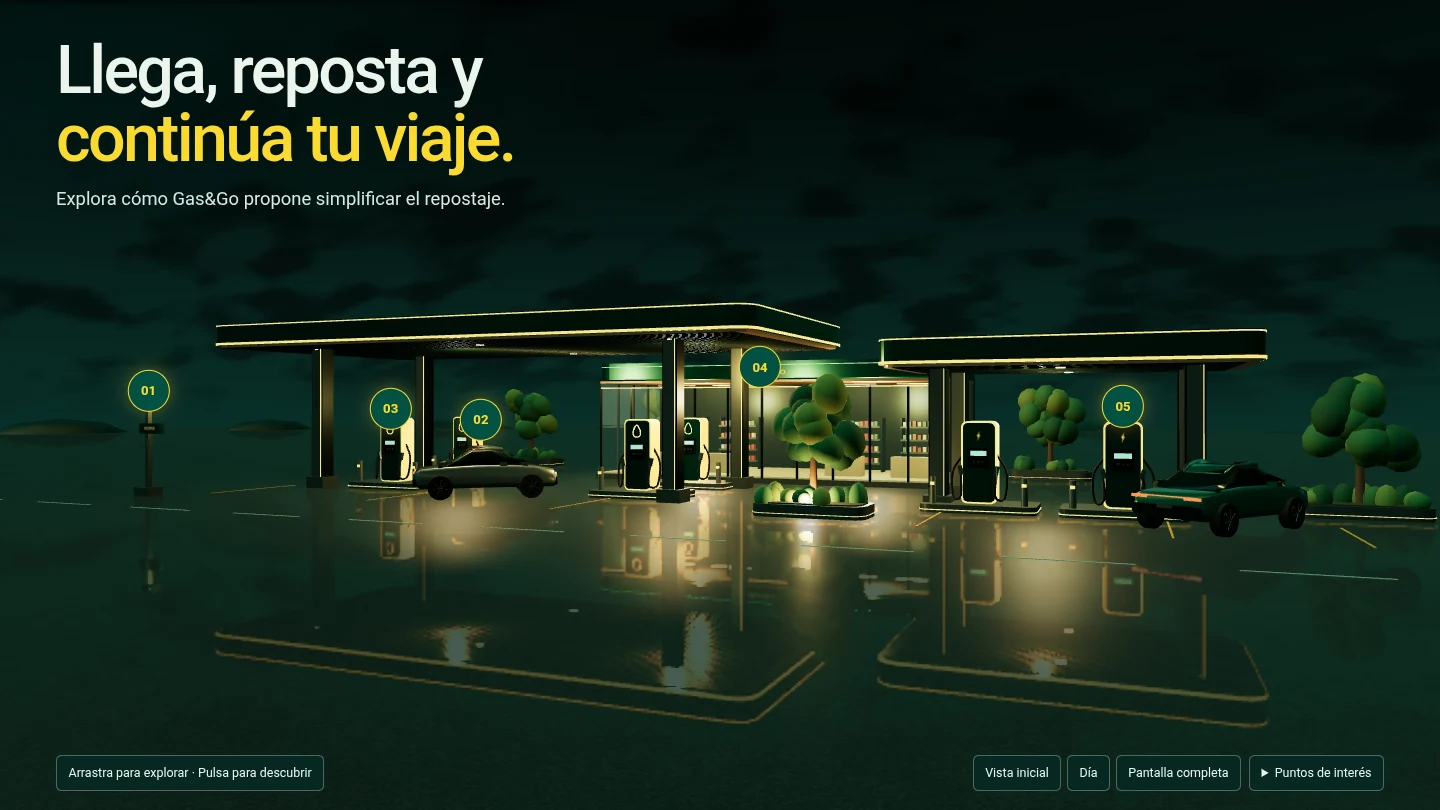
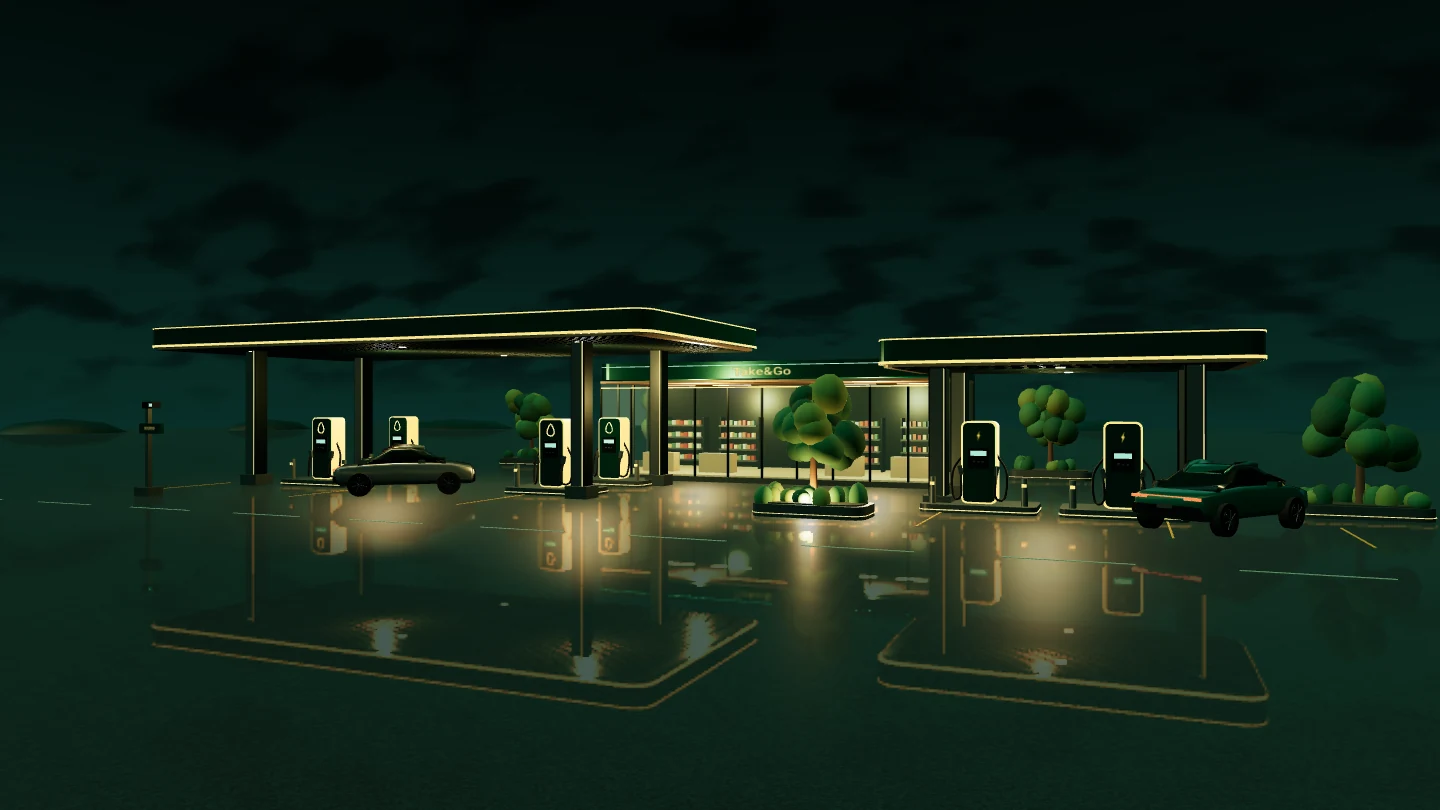
Keep homepage headline visible and clear Take&Go signage

diff --git a/assets/scene/station.js b/assets/scene/station.js
@@ -4,18 +4,20 @@ import { box, canopy, dispenser, group, label, market, materials as m, tube } fr
 import { environment, lighting, sky, studioReflections } from './environment.js';
 import { vehicle } from './vehicles.js';
 import { services } from './services.js';
+import { fuelOffsetX, fuelX } from './layout.js';
 
 function buildStation(scene) {
-  canopy(scene, -6.9, -.5, 21.7, 10.1, 5.76);
+  const forecourt = group(scene, fuelOffsetX, 0, 0);
+  canopy(forecourt, -6.9, -.5, 21.7, 10.1, 5.76);
   canopy(scene, 12.25, -.65, 10.2, 6.8, 4.72);
-  const fuel = dispenser(scene, -11.7, 1.28);
-  dispenser(scene, -1.3, 1.15);
-  dispenser(scene, -11.7, -3.05);
-  dispenser(scene, -1.3, -3.05);
+  const fuel = dispenser(forecourt, -11.7, 1.28);
+  dispenser(forecourt, -1.3, 1.15);
+  dispenser(forecourt, -11.7, -3.05);
+  dispenser(forecourt, -1.3, -3.05);
   dispenser(scene, 10, 1.35, true);
   const charge = dispenser(scene, 13.9, 1.38, true);
   const shop = market(scene);
-  const car = vehicle(scene, -6.3, 3.15, 0x66736b);
+  const car = vehicle(forecourt, -6.3, 3.15, 0x66736b);
   vehicle(scene, 16.2, 3.33, 0x146853, true);
   tube(scene, m.rubber, [[14.39, 1.16, 1.79], [14.58, .39, 2.14],
     [15.32, .26, 2.44], [15.87, .45, 2.75], [16.13, .94, 2.88]], .044);
@@ -47,6 +49,7 @@ export function mountStation(view, handlers, motion) {
   const reflections = high ? studioReflections(renderer, scene) : null;
   environment(scene, high);
   const interactive = buildStation(scene);
+  scene.updateMatrixWorld(true);
   const bounds = interactive.map(object => new T.Box3().setFromObject(object));
   const highlight = new T.Box3Helper(new T.Box3(), 0xe8c05a);
   highlight.visible = false;
@@ -69,7 +72,7 @@ export function mountStation(view, handlers, motion) {
   const initialTarget = new T.Vector3(1.1, 3.15, 0);
   const initialPosition = new T.Vector3(14, 3.1, 31);
   const solidVolumes = [
-    new T.Box3(new T.Vector3(-18.2, 5.17, -5.98), new T.Vector3(4.4, 6.55, 5.05)),
+    new T.Box3(new T.Vector3(fuelX(-18.2), 5.17, -5.98), new T.Vector3(fuelX(4.4), 6.55, 5.05)),
     new T.Box3(new T.Vector3(6.7, 4.12, -4.45), new T.Vector3(17.8, 5.48, 3.15)),
     new T.Box3(new T.Vector3(-7.25, 0, -12.25), new T.Vector3(8.25, 5.16, -5.6)),
   ];

diff --git a/assets/scene/services.js b/assets/scene/services.js
@@ -1,3 +1,5 @@
+import { fuelX } from './layout.js';
+
 export const services = [
   {
     name: 'Identificación inteligente',
@@ -8,8 +10,8 @@ export const services = [
   {
     name: 'Autorización y pago automático',
     description: 'Gas&Go propone reunir la identificación, la autorización del surtidor y el pago en una sola experiencia. El recibo queda en el historial de la aplicación.',
-    anchor: [-6.3, 2.65, 3.4], target: [-6.3, 1.05, 3.4], angle: [3, 2.4, 9],
-    poster: [.33396, .51813],
+    anchor: [fuelX(-6.3), 2.65, 3.4], target: [fuelX(-6.3), 1.05, 3.4], angle: [3, 2.4, 9],
+    poster: [.27860, .51750],
   },
   {
     name: 'Repostaje inteligente',
@@ -19,14 +21,14 @@ export const services = [
       'B. Autorización mediante confirmación manual.',
       'C. Alternativa mediante NFC o QR dinámico.',
     ],
-    anchor: [-11.7, 3.02, 1.65], target: [-11.7, 1.55, 1.45], angle: [1.5, 2.2, 9],
-    poster: [.27132, .50441],
+    anchor: [fuelX(-11.7), 3.02, 1.65], target: [fuelX(-11.7), 1.55, 1.45], angle: [1.5, 2.2, 9],
+    poster: [.22344, .50432],
   },
   {
     name: 'Take&Go',
     description: 'La tienda del concepto Gas&Go integra la compra y su pago en la aplicación. La propuesta permite adquirir productos sin pasar por una caja convencional.',
-    anchor: [.5, 4.68, -5.6], target: [.5, 2.2, -5.95], angle: [1.4, 2.6, 10],
-    poster: [.52783, .45287],
+    anchor: [3.65, 5.2, -5.6], target: [.5, 2.2, -5.95], angle: [1.4, 2.6, 10],
+    poster: [.581, .43468],
   },
   {
     name: 'Recarga eléctrica',

diff --git a/assets/scene/environment.js b/assets/scene/environment.js
@@ -1,3 +1,4 @@
+import { fuelX } from './layout.js';
 import * as T from './vendor/three.module.min.js';
 import { Reflector } from './vendor/Reflector.js';
 import { box, group, materials as m, mesh, shell, standard } from './model.js';
@@ -40,7 +41,7 @@ export function environment(scene, high) {
   const lane = standard(0x889f85, .13, .74);
   const amber = standard(0xb8882e, .22, .54);
   for (let i = -5; i <= 5; i++) box(scene, lane, i * 4.3, .02, 10.3, 2.5, .012, .065);
-  for (const x of [-16, -9, -2, 9, 15, 19]) {
+  for (const x of [fuelX(-16), fuelX(-9), fuelX(-2), 9, 15, 19]) {
     box(scene, amber, x, .023, 4, .055, .014, 3.75);
   }
   for (const x of [-15, -7, 5.8, 11, 20]) {
@@ -114,7 +115,7 @@ export function lighting(scene) {
   moon.position.set(-11, 17, 12);
   scene.add(ambient, moon);
   const warm = [];
-  for (const [x, y, z, intensity] of [[-9, 4.6, 1.2, 88], [0, 4.4, 1.3, 83],
+  for (const [x, y, z, intensity] of [[fuelX(-9), 4.6, 1.2, 88], [fuelX(0), 4.4, 1.3, 83],
     [11.7, 3.5, .7, 62], [-3, 3.4, -7.5, 95], [4.7, 3.45, -7.1, 108], [5.8, .48, 4.95, 18]]) {
     const source = new T.PointLight(0xffcf7f, intensity, 20, 2);
     source.position.set(x, y, z);

diff --git a/assets/css/station.css b/assets/css/station.css
@@ -58,6 +58,37 @@
   object-fit: contain;
 }
 
+.station-intro {
+  position: absolute;
+  z-index: 1;
+  inset: clamp(1.3rem, 4vh, 3.25rem) var(--edge) auto;
+  width: fit-content;
+  max-width: calc(100% - 2 * var(--edge));
+  text-shadow: 0 2px 18px #001210;
+  pointer-events: none;
+}
+
+.station-intro h1 {
+  max-width: 16ch;
+  margin: 0;
+  font-size: clamp(2.3rem, 4.8vw, 4.15rem);
+  font-weight: 500;
+  line-height: 1.03;
+  letter-spacing: -.04em;
+}
+
+.station-intro em {
+  display: block;
+  color: var(--yellow);
+  font-style: normal;
+}
+
+.station-intro p {
+  margin: .7rem 0 0;
+  color: #d6e9e2;
+  font-size: clamp(.9rem, 1.9vw, 1.15rem);
+}
+
 .station-markers {
   z-index: 2;
   pointer-events: none;
@@ -257,6 +288,10 @@
 }
 
 @media (max-width: 44rem) {
+  .station-intro h1 {
+    font-size: clamp(2.1rem, 8.5vw, 3.25rem);
+  }
+
   .station-toolbar {
     bottom: .85rem;
   }
@@ -290,5 +325,15 @@
     width: 2rem;
     height: 2rem;
     font-size: .72rem;
+  }
+}
+
+@media (max-height: 29rem) {
+  .station-intro {
+    top: .85rem;
+  }
+
+  .station-intro h1 {
+    font-size: clamp(1.35rem, 6vh, 2rem);
   }
 }

diff --git a/index.html b/index.html
@@ -29,7 +29,10 @@
             <img class="station-poster" src="assets/images/station-poster.webp" width="1440" height="810" alt="">
           </div>
 
-          <h1 id="titulo" class="visually-hidden">Estación interactiva Gas&amp;Go</h1>
+          <div class="station-intro">
+            <h1 id="titulo">Llega, reposta y <em>continúa tu viaje.</em></h1>
+            <p>Explora cómo Gas&amp;Go propone simplificar el repostaje.</p>
+          </div>
 
           <div class="station-markers" aria-label="Puntos de interés">
             <button type="button" class="station-marker" data-zone="0" aria-label="01 Identificación inteligente" data-name="Identificación inteligente">01</button>

diff --git a/assets/scene/model.js b/assets/scene/model.js
@@ -171,6 +171,6 @@ export function market(scene) {
     for (const z of [-1.45, 0, 1.45]) box(shop, m.frame, x, 2.16, z, .1, 4, .075);
   }
   for (const x of [-.12, .12]) box(shop, m.steel, x, 1.44, 3.15, .037, .48, .06);
-  label(shop, 'Take&Go', 0, 4.47, 3.13, 3.55, .61);
+  label(shop, 'Take&Go', 0, 4.47, 3.13, 4.25, .77);
   return shop;
 }

diff --git a/assets/css/site.css b/assets/css/site.css
@@ -93,16 +93,6 @@ a:focus-visible {
   }
 }
 
-.visually-hidden {
-  position: absolute;
-  width: 1px;
-  height: 1px;
-  margin: -1px;
-  overflow: hidden;
-  clip-path: inset(50%);
-  white-space: nowrap;
-}
-
 .process {
   padding-block: clamp(3rem, 6vw, 5.5rem);
 }

diff --git a/assets/scene/layout.js b/assets/scene/layout.js
@@ -1,0 +1,3 @@
+export const fuelOffsetX = -3.4;
+
+export const fuelX = x => x + fuelOffsetX;
